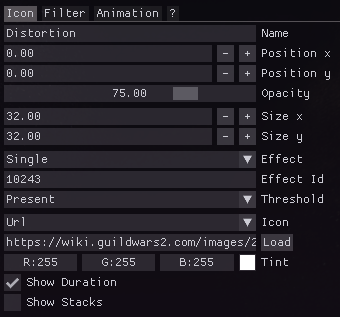
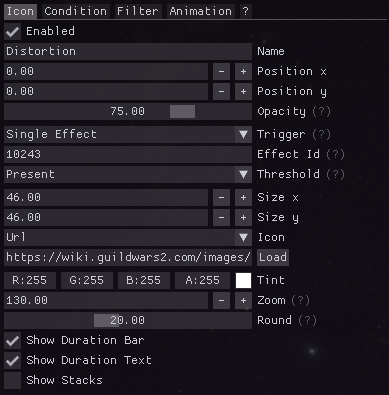
Update docs

diff --git a/docs/elements.md b/docs/elements.md
@@ -46,10 +46,10 @@ This can be used as a fully customizable alternative to the simple stacks/durati
 
 The following text replacements are supported:
 - `%n` for the name of the element
-- `%s` for the current number of effect stacks
-- `%r` for the remaining effect duration
-- `%f` for the initial full effect duration
-- `%p` for the effect duration progress (remaining effect duration in percent)
+- `%s` for the current number of effect stacks or current resource amount
+- `%r` for the remaining effect duration or current resource amount
+- `%f` for the initial full effect duration or max resource amount
+- `%p` for the remaining effect duration or current resource amount in percent
 - `%%` for a simple % sign
 
 ![Text](./img/text.png)
@@ -63,10 +63,22 @@ They are a fully customizable alternative to the simple progress bar built into 
 
 # Additional element options
 
+## Trigger
+Triggers can be inherited from parent elements or set on the element itself.
+A variety of information sources is supported: your character's effects, health, barrier and profession resources.
+
+## Condition
+Conditions allow dynamically changing element properties based on custom thresholds.
+
+![Conditions](./img/condition.png)
+
 ## Filter
 Filters allow restricting the visibility of elements.
 For example elements can be limited to in or out of combat, one or multiple specializations or specific maps.
 This is especially useful for elements that are not tied to an effect.
+
+Commonly used map ids can be inserted by right-clicking the "Add Map Id" button.
+The trait id input supports pasting chat links.
 
 ![Filters](./img/filter.png)
 
@@ -74,3 +86,4 @@ This is especially useful for elements that are not tied to an effect.
 Optionally an animation can be added to an element to further highlight its presence on screen.
 
 ![Animation](./img/animation.png)
+ 

diff --git a/docs/getting-started.md b/docs/getting-started.md
@@ -58,3 +58,8 @@ Log reports generated by [Elite Insights](https://github.com/baaron4/GW2-Elite-I
 Beware that this may include hidden as well as virtual (negative id) effects!
 
 ![Effect id in Elite Insights log report](./img/id-log.png)
+
+Reffect itself also features a debug window under "Advanced" in the addon settings.
+This window allows you to see current traits, resources and buffs on hover.
+
+![Reffect debug window](./img/debug-window.png)
